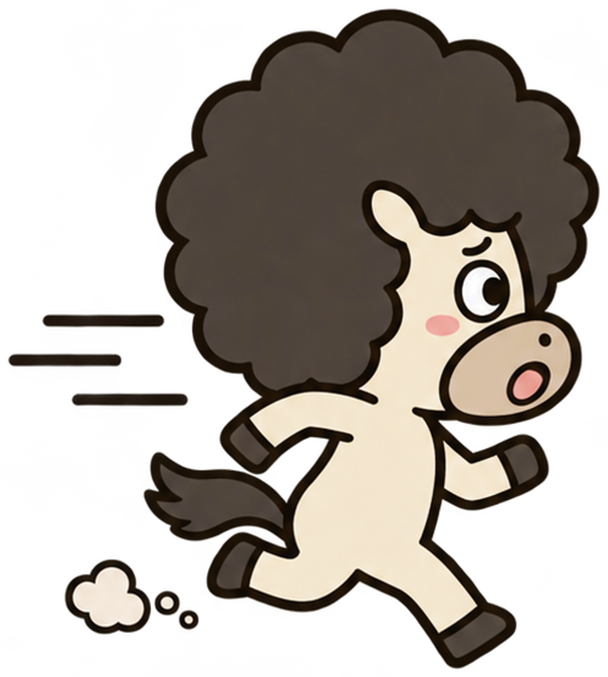
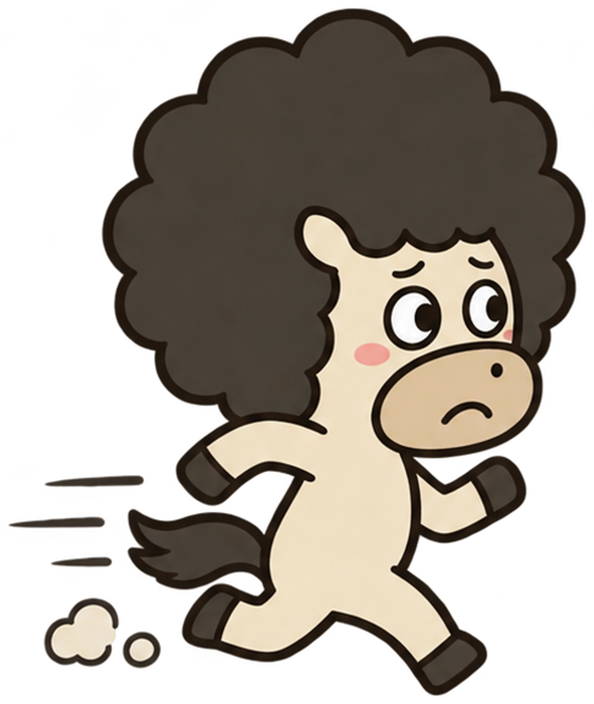
素材: 追い比べと盛りを、生成した専用の絵に差しかえる
設定シートを添付して描きなおしてもらった v3 を入れた。

追い比べ
- 走る4頭をそれぞれの絵に。色変えの filter をやめた
- 背景とアイコンも v3 に差しかえ

盛り
- アフロが4段階でふくらむ絵（ふつう・ふくらむ・限界・爆発）
- 絵そのものが 1.8 倍になるので、CSS の拡大はひかえめに（VS 0.38）
- 絵のあるアフワとブルマの2頭だけに。チャフワとギンマは絵ができてから

仮に置いていた SVG のアイコンは消した。

diff --git a/game/mori.html b/game/mori.html
@@ -45,7 +45,7 @@
 
   /* アフロ。押しているあいだ、これが大きくなる */
   .m-head {
-    width: 108px; height: auto; display: block;
+    width: 186px; height: auto; display: block;
     transform-origin: center center;
     filter: drop-shadow(0 6px 14px rgba(0,0,0,.55));
     will-change: transform;
@@ -108,7 +108,7 @@
 <!-- ===== タイトル ===== -->
 <section class="ascreen active" id="scTitle">
   <div class="at-eye">CHICKEN RACE</div>
-  <h1 class="at-logo"><img src="../images/icon/mori.svg" alt="アフロ盛り"></h1>
+  <h1 class="at-logo"><img src="../images/icon/mori.webp" alt="アフロ盛り"></h1>
   <p class="at-sub">どこまで盛れる？</p>
   <div class="at-best">自己ベスト <b id="gBest">—</b></div>
   <button class="abtn" type="button" id="startBtn">スタート</button>
@@ -142,7 +142,7 @@
   <div class="ain grow">
     <div class="astage" id="stage">
       <div class="m-warn" id="warn">はちきれそう！</div>
-      <img class="m-head" id="head" src="../images/find/afuwa_futsu.webp" alt="">
+      <img class="m-head" id="head" src="../images/mori/afuwa_calm.webp" alt="">
       <div class="m-size" id="size"></div>
       <div class="acue" id="cue" hidden>
         <div class="acue-big" id="cueBig"></div>
@@ -179,17 +179,20 @@
   var MAXS = 3.6;
 
   var CHARA = [
-    { nm: 'アフワ',   f: 'afuwa' },
-    { nm: 'ブルマ',   f: 'buruma' },
-    { nm: 'チャフワ', f: 'chafuwa' },
-    { nm: 'ギンマ',   f: 'ginma' }
+    { nm: 'アフワ', f: 'afuwa' },
+    { nm: 'ブルマ', f: 'buruma' }
   ];
-  var FACE = { calm: 'futsu', fun: 'warai', oh: 'odoroki' };
+  /* アフロそのものが4段階でふくらむ絵。台紙の大きさはそろえてある */
+  var STAGE = ['calm', 'big', 'limit', 'pop'];
+  var BIG_AT = 1.38;        /* これを超えたら「ふくらんだ顔」に差しかえる */
+  var VS = 0.38;            /* 絵も大きくなるので、拡大はひかえめに */
 
   /* 先に読ませておく。差しかわった瞬間に一拍おかないよう */
   (function () {
     for (var i = 0; i < CHARA.length; i++) {
-      for (var k in FACE) { var im = new Image(); im.src = '../images/find/' + CHARA[i].f + '_' + FACE[k] + '.webp'; }
+      for (var k = 0; k < STAGE.length; k++) {
+        var im = new Image(); im.src = '../images/mori/' + CHARA[i].f + '_' + STAGE[k] + '.webp';
+      }
     }
   })();
 
@@ -233,9 +236,15 @@
 
   function pts(v) { return Math.round((v - 1) * 100); }
 
+  var shown = '';
   function face(kind) {
-    head.src = '../images/find/' + chara.f + '_' + FACE[kind] + '.webp';
+    var key = chara.f + '_' + kind;
+    if (key === shown) { return; }
+    shown = key;
+    head.src = '../images/mori/' + key + '.webp';
   }
+  /* 見た目の大きさ。絵がすでにふくらんでいるぶん、拡大はゆるめる */
+  function vs(v) { return 1 + (Math.min(MAXS, v) - 1) * VS; }
 
   function paintLaps() {
     var h = '';
@@ -260,6 +269,7 @@
     warned = false;
     state = 'ready';
     stage.classList.remove('is-warn');
+    shown = '';
     head.style.transform = 'scale(1)';
     face('calm');
     sizeEl.textContent = '';
@@ -275,7 +285,7 @@
     laps[turn] = p;
     sum += p;
     nowEl.textContent = p;
-    face('fun');
+    face('big');
     Sfx.good();
     state = 'wait';
     paintLaps();
@@ -288,7 +298,7 @@
   function boom() {
     laps[turn] = 0;
     state = 'wait';
-    face('oh');
+    face('pop');
     Sfx.bad();
     stage.classList.remove('ashake'); void stage.offsetWidth; stage.classList.add('ashake');
     stage.classList.remove('is-warn');
@@ -303,7 +313,7 @@
       stage.appendChild(b);
       (function (el) { setTimeout(function () { el.remove(); }, 700); })(b);
     }
-    head.style.transform = 'scale(.82)';
+    head.style.transform = 'scale(1.05)';
     sizeEl.textContent = '';
     nowEl.textContent = '0';
     paintLaps();
@@ -335,13 +345,14 @@
     var r = s / lim;                 /* 限界までどれくらい来たか */
     var danger = r >= warn;
     stage.classList.toggle('is-warn', danger);
-    if (danger && !warned) { warned = true; face('oh'); }   /* 顔でも知らせる */
+    if (danger && !warned) { warned = true; }
+    face(danger ? 'limit' : (s >= BIG_AT ? 'big' : 'calm'));   /* 絵でも知らせる */
 
     /* ふるえ。限界に近いほど大きくゆれる */
     var sh = danger ? (r - warn) / (1 - warn) : 0;
     var dx = sh ? (Math.random() - 0.5) * sh * 14 : 0;
     var dy = sh ? (Math.random() - 0.5) * sh * 14 : 0;
-    head.style.transform = 'translate(' + dx + 'px,' + dy + 'px) scale(' + Math.min(MAXS, s) + ')';
+    head.style.transform = 'translate(' + dx + 'px,' + dy + 'px) scale(' + vs(s) + ')';
     sizeEl.textContent = pts(s);
 
     /* カチカチ。近いほど速くなる */

diff --git a/game/race.html b/game/race.html
@@ -78,15 +78,12 @@
 
   /* 馬 */
   .r-h {
-    position: absolute; width: 92px; height: auto;
+    position: absolute; height: 96px; width: auto;
     filter: drop-shadow(0 4px 8px rgba(0,0,0,.6));
     will-change: transform;
   }
-  .r-h.me { width: 104px; }
+  .r-h.me { height: 110px; }
   .r-h.run { animation: rBob .24s steps(2, end) infinite; }
-  .r-h.c1 { filter: drop-shadow(0 4px 8px rgba(0,0,0,.6)) sepia(1) saturate(4.5) hue-rotate(172deg); }
-  .r-h.c2 { filter: drop-shadow(0 4px 8px rgba(0,0,0,.6)) sepia(1) saturate(5)   hue-rotate(312deg); }
-  .r-h.c3 { filter: drop-shadow(0 4px 8px rgba(0,0,0,.6)) grayscale(1) brightness(1.25) contrast(1.15); }
   @keyframes rBob { 0% { margin-bottom: 0; } 100% { margin-bottom: 7px; } }
 
   /* ムチの輪。縮んできて、点線に重なった瞬間が「脚が地につく」とき */
@@ -153,7 +150,7 @@
 <!-- ===== タイトル ===== -->
 <section class="ascreen active" id="scTitle">
   <div class="at-eye">LAST 200M</div>
-  <h1 class="at-logo"><img src="../images/icon/race.svg" alt="アフロ追い比べ"></h1>
+  <h1 class="at-logo"><img src="../images/icon/race.webp" alt="アフロ追い比べ"></h1>
   <p class="at-sub">脚が地についた瞬間に、ムチ</p>
   <div class="at-best">自己ベスト <b id="gBest">—</b></div>
   <button class="abtn" type="button" id="startBtn">スタート</button>
@@ -239,11 +236,11 @@
 
   /* ライバル3頭。u は進んだ割合。横並びから始まる */
   var RIVALS = [
-    { nm: 'ブルマ',   cls: 'c1', lane: 0, x0:  3.0,
+    { nm: 'ブルマ',   img: 'buruma', lane: 0, x0:  3.0,
       v: function (u) { return 19.8 - 4.6 * u * u; } },        /* 先に抜け出して、最後バテる */
-    { nm: 'チャフワ', cls: 'c2', lane: 1, x0:  1.2,
+    { nm: 'チャフワ', img: 'chafuwa', lane: 1, x0:  1.2,
       v: function (u) { return 17.9 - 0.5 * u; } },            /* ずっと同じ脚 */
-    { nm: 'ギンマ',   cls: 'c3', lane: 3, x0: -1.5,
+    { nm: 'ギンマ',   img: 'ginma', lane: 3, x0: -1.5,
       v: function (u) { return 16.3 + 4.4 * u * u; } }         /* 最後だけ伸びる */
   ];
 
@@ -262,8 +259,11 @@
   var staFill= document.getElementById('staFill');
 
   /* 本物のキャラの絵ができるまでは、サイトにある正しい絵を色だけ変えて使う */
-  var HORSE = '../images/game/run_afuwa.webp';
-  (function () { var i = new Image(); i.src = HORSE; })();
+  function horse(nm) { return '../images/race/run_' + nm + '.webp'; }
+  (function () {
+    var all = ['afuwa', 'buruma', 'chafuwa', 'ginma'];
+    for (var i = 0; i < all.length; i++) { var im = new Image(); im.src = horse(all[i]); }
+  })();
 
   var me, foes, els, poles, goalEl, ringEl, markEl, draftEl;
   var state = 'idle', t0 = 0, last = 0, raf = null, cd = 0;
@@ -325,8 +325,8 @@
 
     foes.forEach(function (f) {
       var img = document.createElement('img');
-      img.className = 'r-h ' + f.r.cls;
-      img.src = HORSE; img.alt = '';
+      img.className = 'r-h';
+      img.src = horse(f.r.img); img.alt = '';
       img.style.bottom = LANE[f.r.lane];
       img.style.zIndex = 10 - f.r.lane;
       stage.appendChild(img);
@@ -334,7 +334,7 @@
     });
     var mine = document.createElement('img');
     mine.className = 'r-h me';
-    mine.src = HORSE; mine.alt = 'あなたのアフロ馬';
+    mine.src = horse('afuwa'); mine.alt = 'あなたのアフロ馬';
     mine.style.bottom = LANE[me.lane];
     mine.style.zIndex = 10 - me.lane;
     stage.appendChild(mine);
@@ -379,7 +379,7 @@
     for (var i = 0; i < els.length; i++) {
       var e = els[i];
       var px = (e.o.x - cam) * PPM;
-      var hw = (e.el.offsetWidth || 90) / 2;
+      var hw = (e.el.offsetWidth || 80) / 2;
       e.el.style.transform = 'translate(' + (px - hw) + 'px, 0)';
       e.el.classList.toggle('run', state === 'run');
     }

diff --git a/game.html b/game.html
@@ -114,7 +114,7 @@
       </a>
       <a class="game-card" href="game/mori.html" data-game="mori">
         <span class="game-badge">合計点</span>
-        <span class="game-shot icon"><img src="images/icon/mori.svg" alt="" loading="lazy"></span>
+        <span class="game-shot icon"><img src="images/icon/mori.webp" alt="" loading="lazy"></span>
         <span class="game-body">
           <span class="game-name">アフロ盛り</span>
           <p class="game-desc">限界まで盛る。超えたら爆発</p>
@@ -122,7 +122,7 @@
       </a>
       <a class="game-card" href="game/race.html" data-game="race">
         <span class="game-badge">タイム</span>
-        <span class="game-shot icon"><img src="images/icon/race.svg" alt="" loading="lazy"></span>
+        <span class="game-shot icon"><img src="images/icon/race.webp" alt="" loading="lazy"></span>
         <span class="game-body">
           <span class="game-name">アフロ追い比べ</span>
           <p class="game-desc">ゴール前200mの叩き合い</p>
